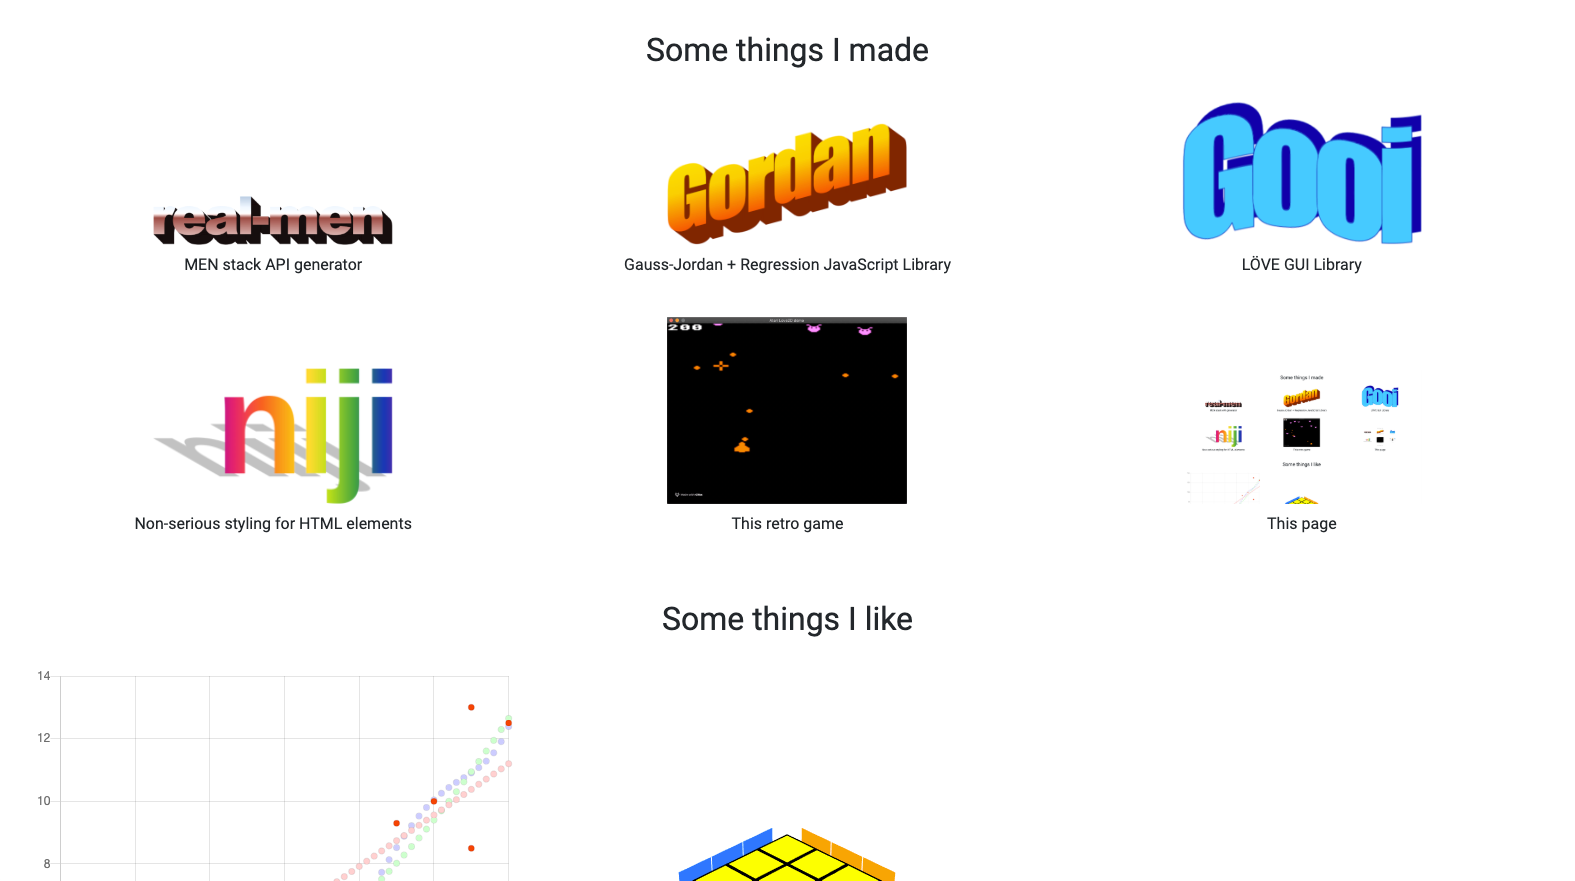
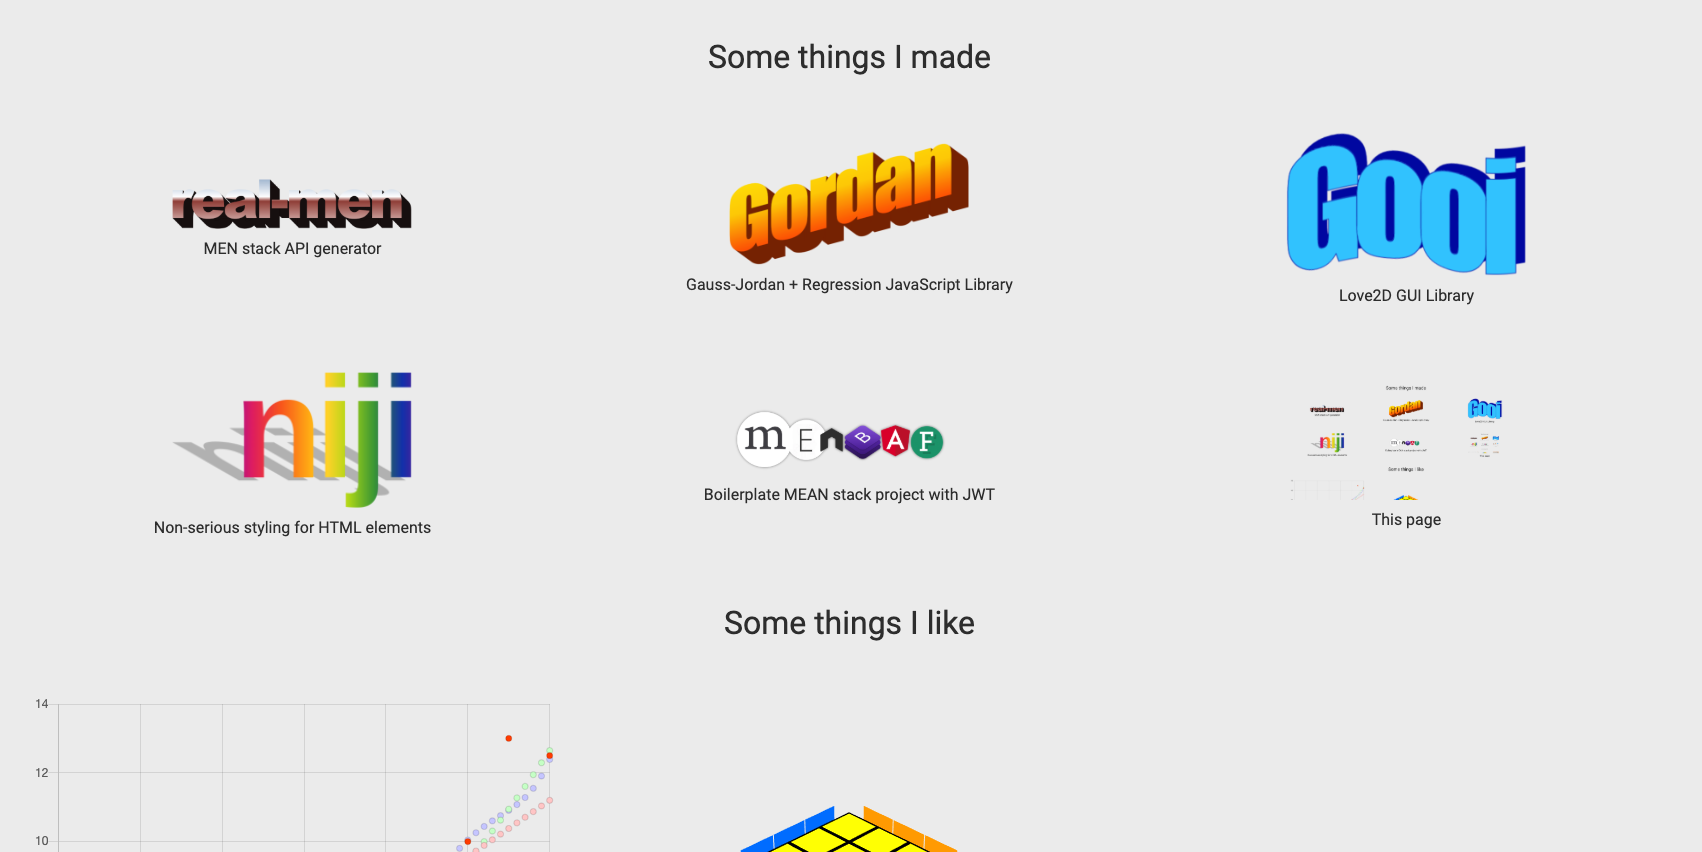
changed some elements

diff --git a/index.html b/index.html
@@ -72,9 +72,9 @@
     </div>
     <div class="col-sm-12 col-lg-4 text-center mt-4">
       <figure>
-        <img class="cursor-pointer card-image insistent" onclick="goTo(`https://github.com/tavuntu/atari-love2d-demo`)"
-          src="img/atari.gif" alt="My atari 2600-like game" title="My atari 2600-like game (workshop demo)" />
-        <figcaption class="mt-2">This retro game</figcaption>
+        <img class="cursor-pointer card-image insistent" onclick="goTo(`https://github.com/tavuntu/menbaf-front`)"
+          src="img/menbaf.png" alt="Menbaf" title="Boilerplate MEAN-stack project implementing Bootstrap, JWT, Font Awesome and more" />
+        <figcaption class="mt-2">Boilerplate MEAN stack project with JWT</figcaption>
       </figure>
     </div>
     <div class="col-sm-12 col-lg-4 text-center mt-4">
@@ -109,21 +109,14 @@
     </div>
     <div class="col-sm-12 col-lg-4 text-center mt-4">
       <figure>
-        <img class="cursor-pointer card-image" onclick="goTo(`https://en.wikipedia.org/wiki/Mbira`)"
-          src="img/mbira.png" title="This Kalimba (or Mbira) has a super relaxing tune" />
-        <figcaption class="mt-2">Music</figcaption>
+        <img class="cursor-pointer card-image" onclick="goTo(`https://en.wikipedia.org/wiki/Nachos`)"
+          src="img/nachos.png" title="I really like nachos, tacos and other mexican food" />
+        <figcaption class="mt-2">Nachos</figcaption>
       </figure>
     </div>
   </div>
 
   <div class="row d-flex align-items-center mt-4">
-    <div class="col-sm-12 col-lg-4 text-center mt-4">
-      <figure>
-        <img class="cursor-pointer card-image" onclick="goTo(`https://en.wikipedia.org/wiki/Conway%27s_Game_of_Life`)"
-          src="img/breeder.gif" title="Breeder, one of many Game of Life patterns" />
-        <figcaption class="mt-2">Automatons and AI</figcaption>
-      </figure>
-    </div>
     <div class="col-sm-12 col-lg-4 text-center mt-4">
       <figure>
         <img class="cursor-pointer card-image" onclick="goTo(`https://www.raspberrypi.org/`)" src="img/pi.png"
@@ -135,7 +128,13 @@
       <figure>
         <img class="cursor-pointer card-image" onclick="goTo(`https://en.wikipedia.org/wiki/Metal_Slug`)"
           src="img/super-vehicle.gif" alt="Metal Slug Super Vehicle" title="Super Vehicle from Metal Slug" />
-        <figcaption class="mt-2">Arcade shooters</figcaption>
+        <figcaption class="mt-2">Retro games</figcaption>
+      </figure>
+    </div>
+    <div class="col-sm-12 col-lg-4 text-center mt-4">
+      <figure>
+        <iframe height="360" src="https://www.artstation.com/embed/11158036" frameborder="0" allowfullscreen="" mozallowfullscreen="true" webkitallowfullscreen="true" onmousewheel="" scrolling="no"> </iframe>
+        <figcaption>Multimedia in general</figcaption>
       </figure>
     </div>
   </div>
